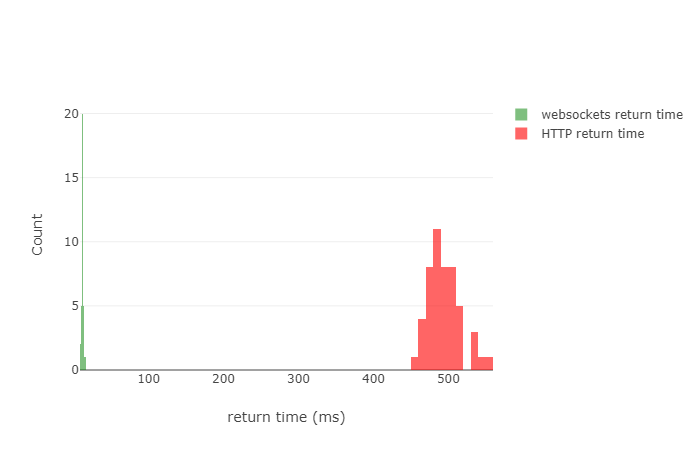
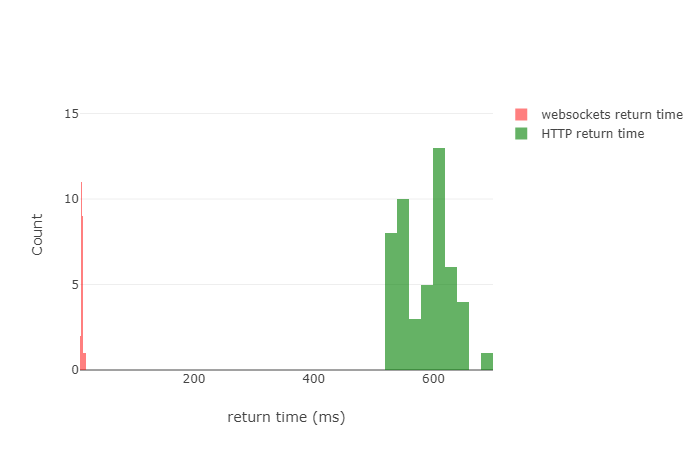
adding presentation timeline svg

diff --git a/2_speed_test/src/demo.js b/2_speed_test/src/demo.js
@@ -1,7 +1,7 @@
 
-/*import Vue from 'vue';
-import VuePlotly from '@statnett/vue-plotly';
-import VueResource from 'vue-resource';*/
+import Vue from 'vue';
+import Plotly from 'plotly.js';
+import VueResource from 'vue-resource';
 Vue.use(VueResource);
 
 var app = new Vue({
@@ -64,7 +64,7 @@ var app = new Vue({
               name: 'websockets return time',
               opacity: 0.5,
               marker: {
-                 color: 'green',
+                 color: 'red',
               },
             };
             var trace2 = {
@@ -73,7 +73,7 @@ var app = new Vue({
               name: 'HTTP return time',
               opacity: 0.6,
               marker: {
-                 color: 'red',
+                 color: 'green',
               },
             };
 

diff --git a/4_resource_usage/demo.html b/4_resource_usage/demo.html
@@ -3,11 +3,7 @@
 <head>
     <meta charset="UTF-8">
     <title>Vue Demo</title>
-
-    <script src="https://cdnjs.cloudflare.com/ajax/libs/vue/2.6.10/vue.min.js"></script>
-    <script src="https://cdnjs.cloudflare.com/ajax/libs/vue-resource/1.5.1/vue-resource.min.js"></script>
-    <script src="https://cdnjs.cloudflare.com/ajax/libs/plotly.js/1.47.4/plotly.min.js"></script>
-    <link href="src/demo.js" rel="preload" as="script" />
+    <link href="dist/bundle.js" rel="preload" as="script" />
 </head>
 <body>
 <div id="app">
@@ -21,7 +17,7 @@
     <div id="resource-plot-cpu" style="width:600px;height:250px;"></div>
 </div>
 </section>
-<script src="src/demo.js"></script>
+<script src="dist/bundle.js"></script>
 </div>
 </body>
 </html>

diff --git a/4_resource_usage/src/demo.js b/4_resource_usage/src/demo.js
@@ -1,7 +1,6 @@
-
-/*import Vue from 'vue';
-import VuePlotly from '@statnett/vue-plotly';
-import VueResource from 'vue-resource';*/
+import Vue from 'vue';
+import Plotly from 'plotly.js';
+import VueResource from 'vue-resource';
 Vue.use(VueResource);
 
 new Vue({

diff --git a/write_timeline.py b/write_timeline.py
@@ -1,0 +1,51 @@
+from builtins import enumerate
+
+import svgwrite
+
+size = (800, 600)
+margin = 50
+center_line = size[1]/2
+dwg = svgwrite.Drawing('timeline.svg', profile='full', size=[f"{dim}px" for dim in size])
+stroke_width = 5
+
+events = {1996: 'iframes',
+          1999: 'ActiveX\nhttp 1.1',
+          2002: 'Oddpost',
+          2004: 'Gmail',
+          2005: 'AJAX',
+          2006: 'Comet',
+          2011: 'WebSocket',
+          2019: ''}
+
+dwg.add(dwg.line((margin, center_line), (size[0]-margin, center_line), stroke=svgwrite.rgb(10, 10, 16, '%'), stroke_width=stroke_width))
+start_year = 1996
+end_year = 2019
+current_year = start_year
+text_height = 32
+text_offset = 10
+above = True
+year_spacing = (size[0]-2*margin)/(end_year - start_year)
+while current_year <= end_year:
+    x_location = margin + (current_year-start_year)*year_spacing
+    if current_year in events:
+        dwg.add(dwg.circle(center=(x_location, center_line), r=stroke_width*2, fill="white", stroke_width=stroke_width, stroke=svgwrite.rgb(10, 10, 16, '%')))
+        if above:
+            dwg.add(
+                dwg.text(f"{current_year}", insert=(x_location-text_offset, center_line+text_offset+text_height), style=f"font: italic {text_height}px sans-serif"))
+            text_parts = events[current_year].split("\n")
+            for i, text_part in enumerate(text_parts):
+                dwg.add(
+                    dwg.text(f"{text_part}", insert=(x_location-text_offset, center_line+ text_offset + text_height*(i+2)),
+                         style=f"font: bold {text_height}px sans-serif"))
+        else:
+            dwg.add(
+                dwg.text(f"{current_year}", insert=(x_location-text_offset, center_line+text_offset-text_height), style=f"font: italic {text_height}px sans-serif"))
+            text_parts = events[current_year].split("\n")
+            for i, text_part in enumerate(text_parts):
+                dwg.add(
+                    dwg.text(f"{text_part}", insert=(x_location-text_offset, center_line+text_offset - text_height*(i+2)),
+                         style=f"font: bold {text_height}px sans-serif"))
+        above = not above
+    current_year += 1
+
+dwg.save()
